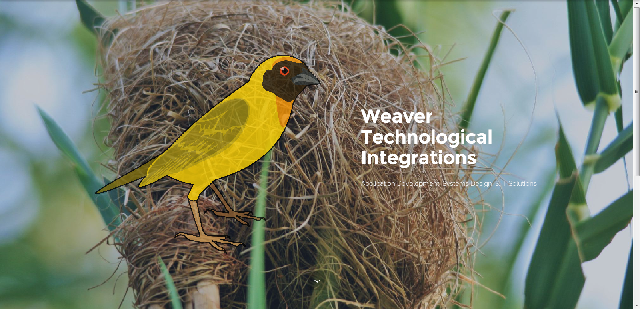
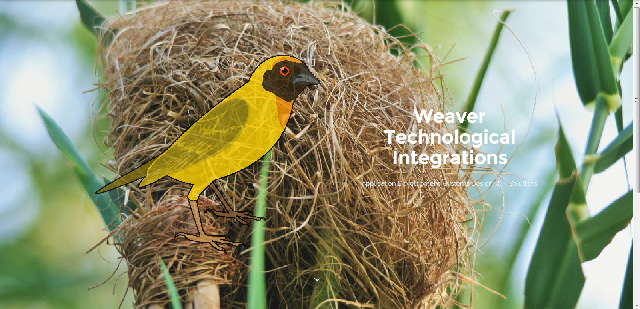
Add files via upload

diff --git a/index.html b/index.html
@@ -27,7 +27,7 @@
 <body>
 <section class="mbr-section mbr-section-hero mbr-section-full mbr-parallax-background" id="index-header2-0" style="background-image: url(assets/images/nest-316713-2000x1333-26.jpg);">
 
-    <div class="mbr-overlay" style="opacity: 0.3; background-color: rgb(71, 85, 119);">
+    <div class="mbr-overlay" style="opacity: 0.1; background-color: rgb(239, 239, 239);">
     </div>
 
     <div class="mbr-table mbr-table-full">
@@ -66,16 +66,21 @@
 
 </section>
 
-<section class="engine"><a rel="external" href="https://mobirise.com">simple wysiwyg web creator software</a></section><section class="mbr-section" id="index-msg-box5-0" style="background-color: rgb(255, 255, 255); padding-top: 0px; padding-bottom: 0px;">
+<section class="engine"><a rel="external" href="https://mobirise.com">top responsive web page creator software download</a></section><section class="mbr-section" id="index-msg-box5-0" style="background-color: rgb(241, 199, 82); padding-top: 0px; padding-bottom: 0px;">
 
     
     <div class="container">
         <div class="row">
             <div class="mbr-table-md-up">
 
+              <div class="mbr-table-cell mbr-right-padding-md-up mbr-valign-top col-md-7">
+                  <div class="mbr-figure"><img src="assets/images/laptop-1209008-1400x787-27.jpg"></div>
+              </div>
+
               
 
-              <div class="mbr-table-cell mbr-right-padding-md-up col-md-5 text-xs-center text-md-right">
+
+              <div class="mbr-table-cell col-md-5 text-xs-center text-md-left">
                   <h3 class="mbr-section-title display-2">SEE WHAT WEAVER CAN BUILD FOR YOU</h3>
                   <div class="lead">
 
@@ -88,11 +93,6 @@
 
 
               
-
-
-              <div class="mbr-table-cell mbr-valign-top col-md-7">
-                  <div class="mbr-figure"><img src="assets/images/desktop.jpg"></div>
-              </div>
 
             </div>
         </div>

diff --git a/assets/mobirise/css/mbr-additional.css b/assets/mobirise/css/mbr-additional.css
@@ -411,9 +411,16 @@ h6,
 .scrollToTop_wraper {
   opacity: 0 !important;
 }
-#header1-1 .mbr-section-title {
-  color: #475577;
+#index-header2-0 P {
+  text-align: center;
+  color: #ffffff;
 }
-#header1-1 .mbr-section-lead {
-  color: #28324e;
+#index-header2-0 H3 {
+  text-align: center;
+}
+#index-msg-box5-0 P {
+  text-align: center;
+}
+#index-msg-box5-0 H3 {
+  text-align: center;
 }
